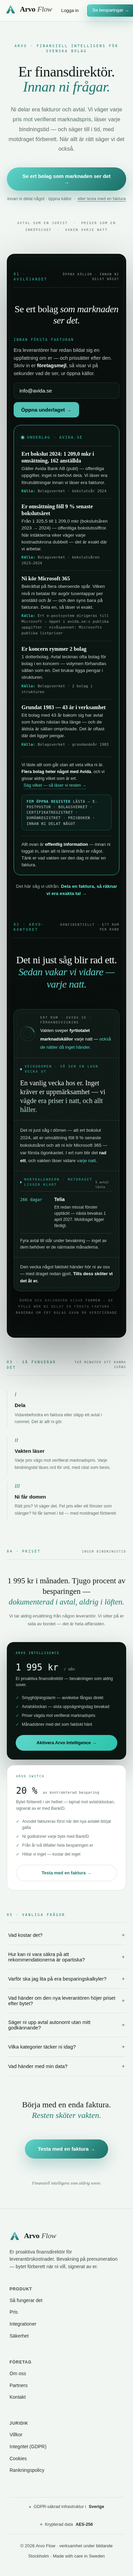
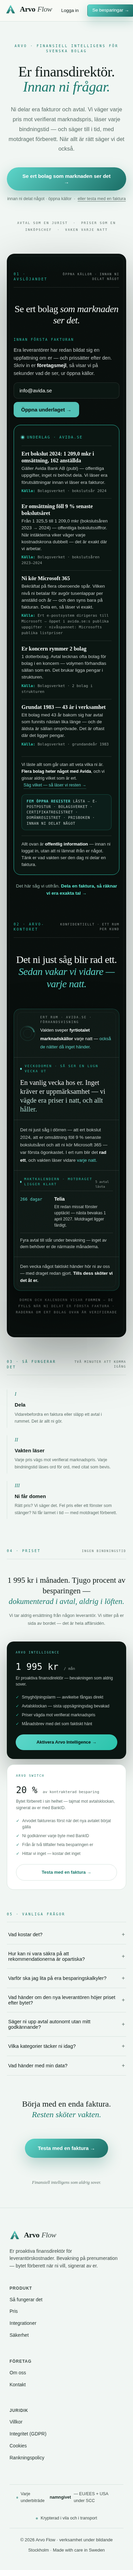
Sveper dörren och rummet — footern bar lögnen på varje yta
Grundaren: "tänk på att vi har dörren och rummet också." Rätt — regel 5.
Jag rättade FAQ, Connect och integritetspolicyn men missade den yta som
bärs av ALLA sidor.

FOOTERN sa "GDPR-säkrad infrastruktur i Sverige" på varenda vy: dörren,
rummet, briefingen, prospektsidan. Samma osanning som de tre jag just
rättat, fast överallt. Nu: "Varje underbiträde namngivet — EU/EES + USA
under SCC". Den ärliga versionen säljer bättre; ingen konkurrent namnger
sina biträden i footern.

CONNECT sa "GDPR · Fullt regelefterlevnad" — en självcertifiering ingen
kan kontrollera, och den stod bredvid badgen som påstod fel land. Nu
pekar den på det vi faktiskt kan visa: biträdesavtal och registerförteckning.

RUMMET påstod tal det inte hade. Radarn föll tillbaka på "40
marknadskällor" när det verkliga antalet saknades, och när inget färskt
svep fanns sa kortet "sveper mot fyrtiotalet marknadskällor" — alltså ett
ungefärligt tal PRECIS när beviset saknades. Okänt är sanningen: antalet
visas nu bara när vi har det, annars säger raden att svepet visas när
körningen rapporterat.

FYRA DÖDA LÄNKAR. Footern pekade på /#hur, /#priser och /#sakerhet —
sidan har inga id:n alls, så alla fyra gjorde ingenting, på varje yta.
Ankare satta för "Så fungerar det" och "Priset"; Integrationer pekar nu
mot /connect och Säkerhet mot integritetspolicyn, där innehållet bor.

"PARTNERS" I FOOTERN pekade på rankningspolicyn — sidan som förklarar att
[…]

diff --git a/src/components/Footer.js b/src/components/Footer.js
@@ -105,15 +105,26 @@ const Footer = () => (
         <ul>
           <li><a href="/#hur">Så fungerar det</a></li>
           <li><a href="/#priser">Pris</a></li>
-          <li><a href="/#hur">Integrationer</a></li>
-          <li><a href="/#sakerhet">Säkerhet</a></li>
+          {/* "Integrationer" och "Säkerhet" pekade på #hur respektive #sakerhet. Sidan hade inga
+              id:n alls, så båda var döda — liksom de två ovan. Nu pekar de dit innehållet
+              faktiskt bor: kopplingarna på /connect, säkerheten i integritetspolicyn. */}
+          <li><Link to="/connect">Integrationer</Link></li>
+          <li><Link to="/integritet">Säkerhet</Link></li>
         </ul>
       </Col>
       <Col>
         <h4>Företag</h4>
         <ul>
           <li><Link to="/">Om oss</Link></li>
-          <li><Link to="/bias">Partners</Link></li>
+          {/* BORTTAGEN 2026-08-07: länken hette "Partners" och pekade på rankningspolicyn — sidan
+              som förklarar att vi ALDRIG tar en krona från en leverantör. Etiketten lovade alltså
+              raka motsatsen till sin egen destination, och antydde precis den sortens
+              leverantörsrelation som neutralitets-moaten förbjuder. Rankningspolicyn ligger kvar
+              under Juridik, där den hör hemma.
+              (Vakthunden fällde min FÖRSTA version av den här kommentaren, för att jag skrev ut
+              det förbjudna ordet i klartext. Jag skrev om meningen i stället för att lägga till
+              ett claims-ok-undantag — ett undantag hade gjort vakten en aning trubbigare för
+              alltid, och kommentaren behövde aldrig ordet.) */}
           <li><a href="mailto:hej@arvoflow.se">Kontakt</a></li>
         </ul>
       </Col>
@@ -127,9 +138,15 @@ const Footer = () => (
         </ul>
       </Col>
     </Inner>
+    {/* RÄTTAT 2026-08-07: här stod "GDPR-säkrad infrastruktur i Sverige" — och footern bärs av
+        VARJE yta, alltså även dörren och rummet. Infrastrukturen är Neon, Vercel, Anthropic och
+        Resend; svensk hosting är planerad, inte i drift. Samma påstående rättades samtidigt i
+        FAQ, Connect-badgen och integritetspolicyns §5, men footern var den som stod överallt.
+        Den ärliga versionen säljer dessutom bättre: ingen konkurrent namnger sina underbiträden
+        i footern. Transparens är ett premiumargument — svepande trygghetsord är det inte. */}
     <TrustRow>
-      <span><div className="dot" /> GDPR-säkrad infrastruktur i <strong>Sverige</strong></span>
-      <span><div className="dot" /> Krypterad data <strong>AES-256</strong></span>
+      <span><div className="dot" /> Varje underbiträde <strong>namngivet</strong> — EU/EES + USA under SCC</span>
+      <span><div className="dot" /> Krypterad i vila och i transport</span>
     </TrustRow>
     <Bottom>
       <span>© 2026 Arvo Flow · verksamhet under bildande</span>

diff --git a/src/pages/Portfolio/index.js b/src/pages/Portfolio/index.js
@@ -634,10 +634,10 @@ export default function Portfolio() {
     // noll kandidater ger bevisbart noll rörelser. Ett positivt antal säger ingenting och sägs
     // därför aldrig — verifierade rörelser bor i marknadsrörelse-korten, efter juryn.
     rows.push({ tag: 'Bevakar', what: vakt?.sweptAt
-      ? <>Svepte <b>{vakt.sources} marknadskällor</b> {relSwept(vakt.sweptAt)}
+      ? <>Svepte {vakt.sources ? <><b>{vakt.sources} marknadskällor</b> </> : 'marknaden '}{relSwept(vakt.sweptAt)}
           {vakt.streakNights >= 2 ? <> · <b>{vakt.streakNights} nätter i rad</b> utan avbrott</> : null}
           {vakt.allClear ? ' — allt lugnt, inget krävde er uppmärksamhet.' : '.'}</>
-      : <>Sveper marknaden nattligt mot fyrtiotalet marknadskällor — er bevakning är aktiv.</> });
+      : <>Er bevakning är aktiv. Nattens svep visas här så snart körningen rapporterat — vi redovisar antalet källor först när vi har det, aldrig en ungefärlig siffra.</> });
     if (autoAnalyses.length > 0) {
       rows.push({ tag: 'Analys', what: <>Vägde <b>{autoAnalyses.length} {autoAnalyses.length === 1 ? 'faktura' : 'fakturor'}</b> mot verifierat marknadspris{latestDate ? <> · senast {latestDate}</> : null}.</> });
     }
@@ -767,7 +767,7 @@ export default function Portfolio() {
                     {/* Radarn bär kedjan: obrutna nätter är det ofejkbara beviset på uthållighet.
                         Ojurerade detektioner nämns aldrig — bara den bevisbara nollan. */}
                     <span>{vakt?.sweptAt
-                      ? <>Senaste svep {relSwept(vakt.sweptAt)} · <b>{vakt.sources ?? 40} marknadskällor</b> svepta
+                      ? <>Senaste svep {relSwept(vakt.sweptAt)} {vakt.sources ? <> · <b>{vakt.sources} marknadskällor</b> svepta</> : null}
                           {vakt.streakNights >= 2 ? <> · <b>{vakt.streakNights} nätter i rad</b></> : null}
                           {vakt.allClear ? ' · allt lugnt' : ''}</>
                       : latestDate ? <>Senaste analys {latestDate} · bevakning aktiv</> : 'Bevakning aktiv'}</span>

diff --git a/src/pages/Landing/index.js b/src/pages/Landing/index.js
@@ -393,7 +393,9 @@ export default function Landing() {
       </DossierShell>
 
       {/* ═══ 03 · SÅ FUNGERAR DET ═══ */}
-      <Light>
+      {/* Ankaret finns för footerns skull: dess länkar pekade på #hur och #priser, men sidan
+          hade inga id:n alls — fyra döda länkar på VARJE yta, dörren och rummet inkluderade. */}
+      <Light id="hur">
         <SectionKey $light>
           <span className="k-num">03 · Så fungerar det</span>
           <span className="k-note">två minuter att komma igång</span>
@@ -414,7 +416,7 @@ export default function Landing() {
       </Light>
 
       {/* ═══ 04 · PRISET ═══ */}
-      <Light>
+      <Light id="priser">
         <SectionKey $light>
           <span className="k-num">04 · Priset</span>
           <span className="k-note">ingen bindningstid</span>

diff --git a/src/pages/Connect/index.js b/src/pages/Connect/index.js
@@ -139,7 +139,10 @@ const Connect = () => {
             <Badge>
               <div className="icon"><Icon name="shield" size={16} stroke={2} /></div>
               <strong>GDPR</strong>
-              <span>Fullt regelefterlevnad</span>
+              {/* RÄTTAT 2026-08-07: "Fullt regelefterlevnad" är en självcertifiering ingen kan
+                  kontrollera — och den stod bredvid en badge som samtidigt påstod fel land för
+                  datan. Det vi FAKTISKT kan visa är dokumenten. */}
+              <span>Biträdesavtal &amp; registerförteckning publicerade</span>
             </Badge>
             <Badge>
               <div className="icon"><Icon name="lock" size={16} stroke={2} /></div>

diff --git a/src/pages/LandingJuli26/index.js b/src/pages/LandingJuli26/index.js
@@ -32,7 +32,7 @@ const HOW_STEPS = [
     step: 'Steg 01',
     title: 'Aktivera Arvo — klart på 2 min',
     body: 'Ni sätter upp automatisk vidarebefordran från er faktura-inkorg. Varje ny leverantörsfaktura flödar in till Arvo — helt automatiskt, ingen IT-integration krävs. Vill ni ha fullständig täckning kopplar ni enkelt in Fortnox eller Visma som komplement.',
-    bullets: ['Noll IT-projekt', 'GDPR-säkrad infrastruktur i Sverige', 'Koppla bort när som helst'],
+    bullets: ['Noll IT-projekt', 'Varje underbiträde namngivet — EU/EES + USA under SCC', 'Koppla bort när som helst'],
   },
   {
     step: 'Steg 02',
